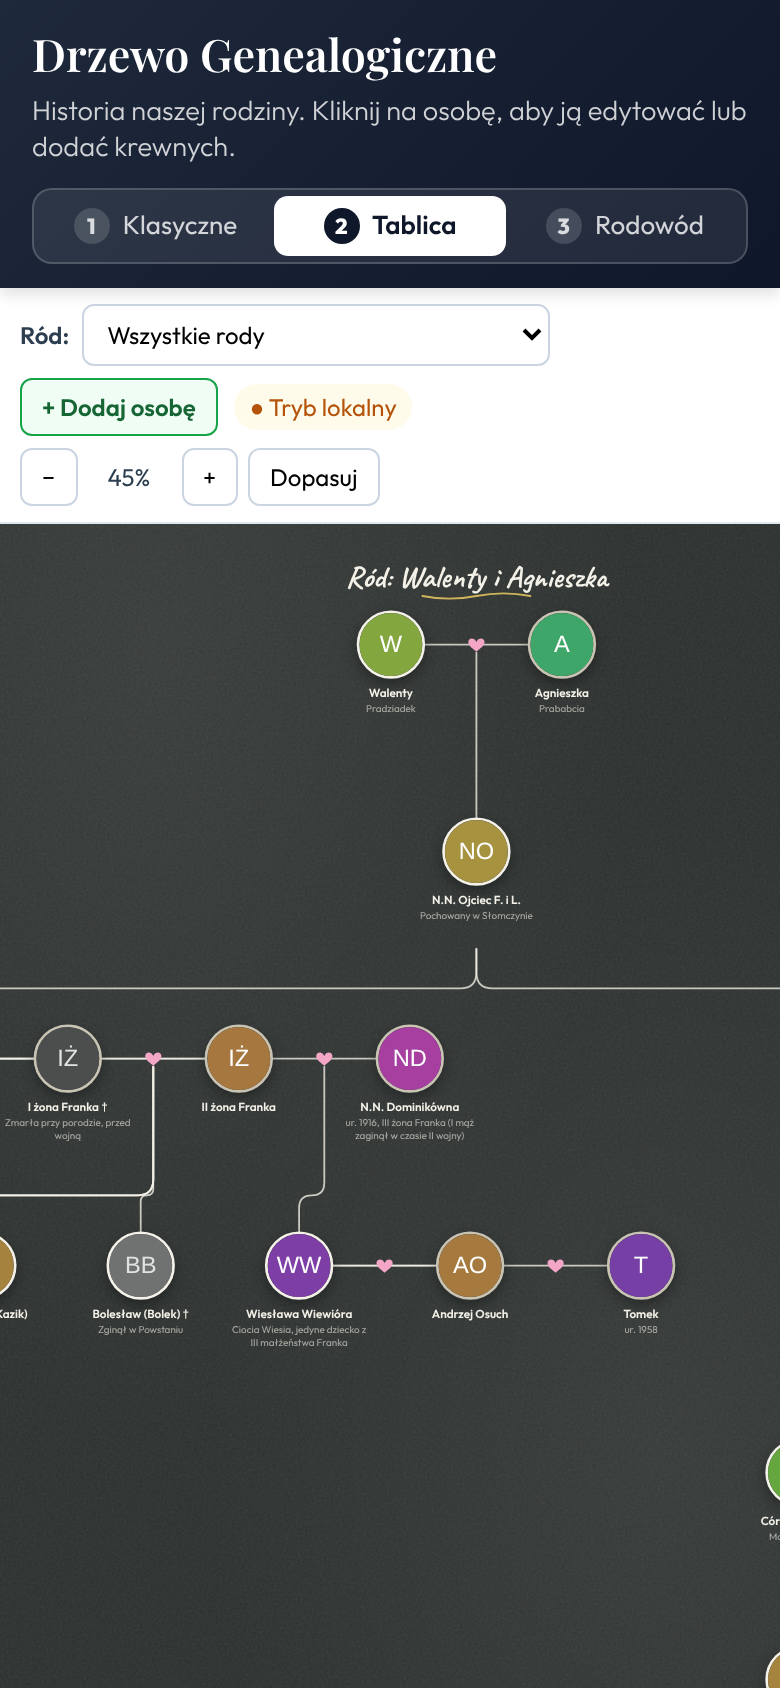
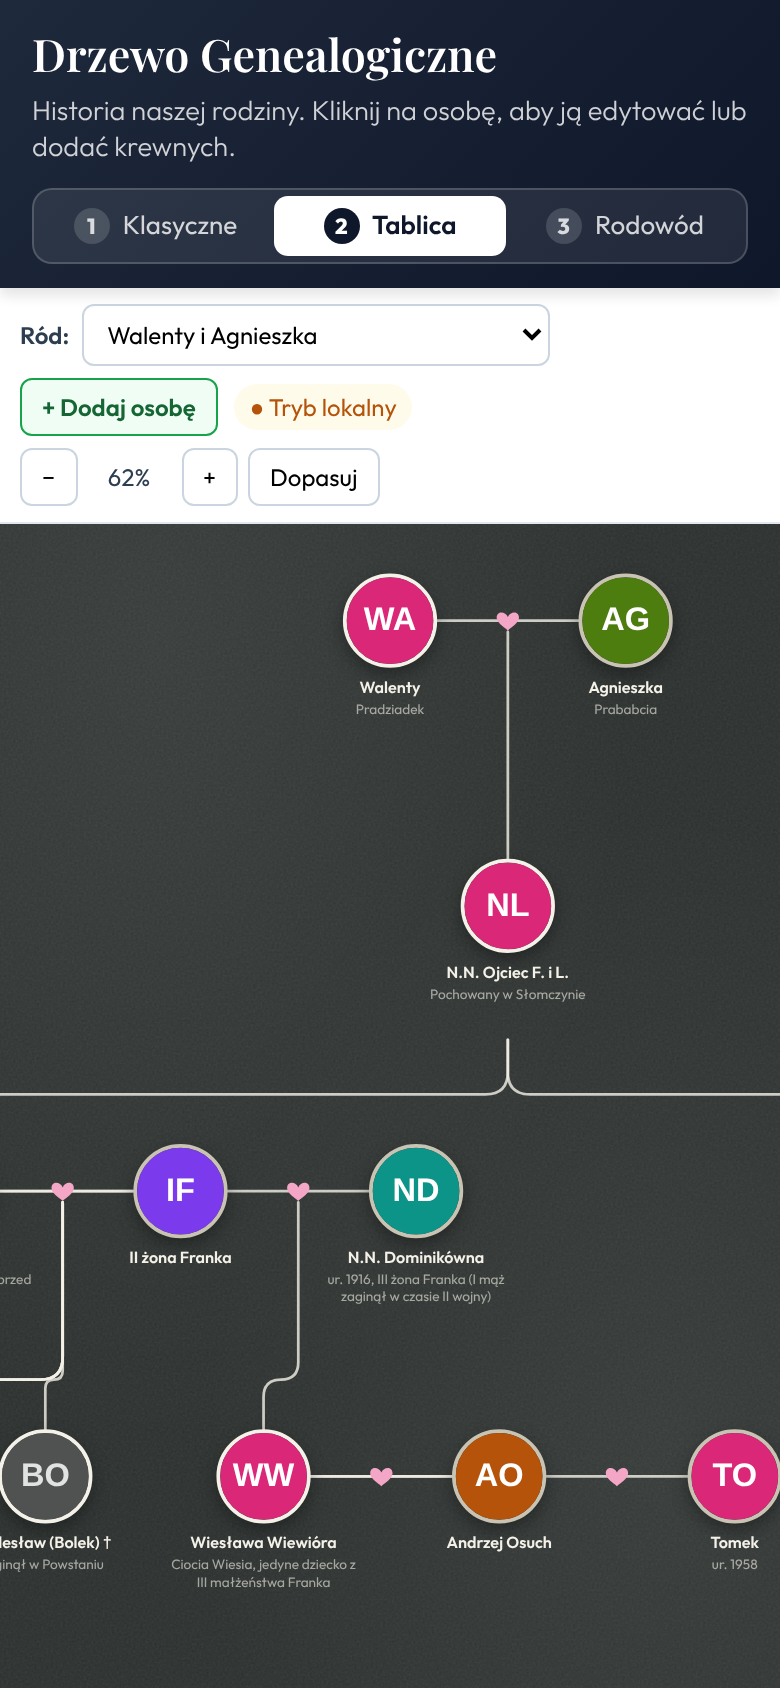
fix(tablica): faster, readable chalkboard view on phones
- drop the SVG displacement filter over the whole drawing; on large
  canvases it made scrolling slow and mobile Safari can drop the lines
- on phones start with the biggest family instead of all families
  side by side, and never fit below 62% so names stay readable
- ignore history.replaceState errors when switching versions (e.g. in
  the Claude artifact frame)

Claude-Session: https://claude.ai/code/session_01K1sBUhFwH3y8iaQ8QBVBvC

diff --git a/src/components/ChalkboardTree.tsx b/src/components/ChalkboardTree.tsx
@@ -12,11 +12,13 @@ const HEART = 'M0 4 C-2 -1 -9 -1 -9 4.5 C-9 9 -3 12 0 15 C3 12 9 9 9 4.5 C9 -1 2
 /** Version 2: descendant chart on a chalkboard, couples joined by a heart. */
 export default function ChalkboardTree({ store }: { store: TreeStore }) {
   const { nodes, byId, photos, error, setError } = useTree(store);
-  const [rootId, setRootId] = useState('all');
+  // On a phone all families side by side are too small to read, so start with the biggest one.
+  const [rootId, setRootId] = useState(() => (window.innerWidth < 640 ? 'auto' : 'all'));
   const [selectedId, setSelectedId] = useState<string | null | undefined>(undefined);
 
   const familyList = useMemo(() => (nodes ? founders(nodes) : []), [nodes]);
-  const activeRoot = rootId === 'all' || byId.has(rootId) ? rootId : 'all';
+  const activeRoot =
+    rootId === 'all' || byId.has(rootId) ? rootId : rootId === 'auto' && familyList.length ? familyList[0].id : 'all';
   const layout = useMemo(() => layoutDescendants(nodes || [], activeRoot), [nodes, activeRoot]);
 
   const options = [
@@ -62,15 +64,10 @@ export default function ChalkboardTree({ store }: { store: TreeStore }) {
 
   const A = D.AVATAR;
   return (
-    <ZoomCanvas width={layout.width} height={layout.height} fitKey={`${activeRoot}-${nodes ? 1 : 0}`} focusX={layout.nodes[0]?.x} className="chalk" toolbar={toolbar} overlay={overlay}>
+    <ZoomCanvas width={layout.width} height={layout.height} fitKey={`${activeRoot}-${nodes ? 1 : 0}`} focusX={layout.nodes[0]?.x} minFitPhone={0.62} className="chalk" toolbar={toolbar} overlay={overlay}>
       <svg width={layout.width} height={layout.height} className="chalk-lines">
-        <defs>
-          <filter id="chalk-rough">
-            <feTurbulence type="fractalNoise" baseFrequency="0.9" numOctaves="2" result="n" />
-            <feDisplacementMap in="SourceGraphic" in2="n" scale="1.6" />
-          </filter>
-        </defs>
-        <g filter="url(#chalk-rough)" fill="none" stroke="rgba(244,241,232,0.78)" strokeWidth="2" strokeLinecap="round">
+        {/* Plain strokes: an SVG filter over the whole (very large) drawing made phones, Safari especially, slow or drop the lines. */}
+        <g fill="none" stroke="rgba(244,241,232,0.8)" strokeWidth="2.2" strokeLinecap="round" strokeLinejoin="round">
           {layout.lines.map((d, i) => <path key={i} d={d} />)}
         </g>
         {layout.hearts.map((h, i) => (

diff --git a/src/App.tsx b/src/App.tsx
@@ -43,9 +43,12 @@ function App() {
     try {
       localStorage.setItem(LS_VERSION, v);
     } catch {}
-    const url = new URL(window.location.href);
-    url.searchParams.set('widok', v);
-    window.history.replaceState(null, '', url);
+    try {
+      // Not allowed everywhere (e.g. inside the Claude artifact frame); the choice still works without it.
+      const url = new URL(window.location.href);
+      url.searchParams.set('widok', v);
+      window.history.replaceState(null, '', url);
+    } catch {}
   };
 
   return (
